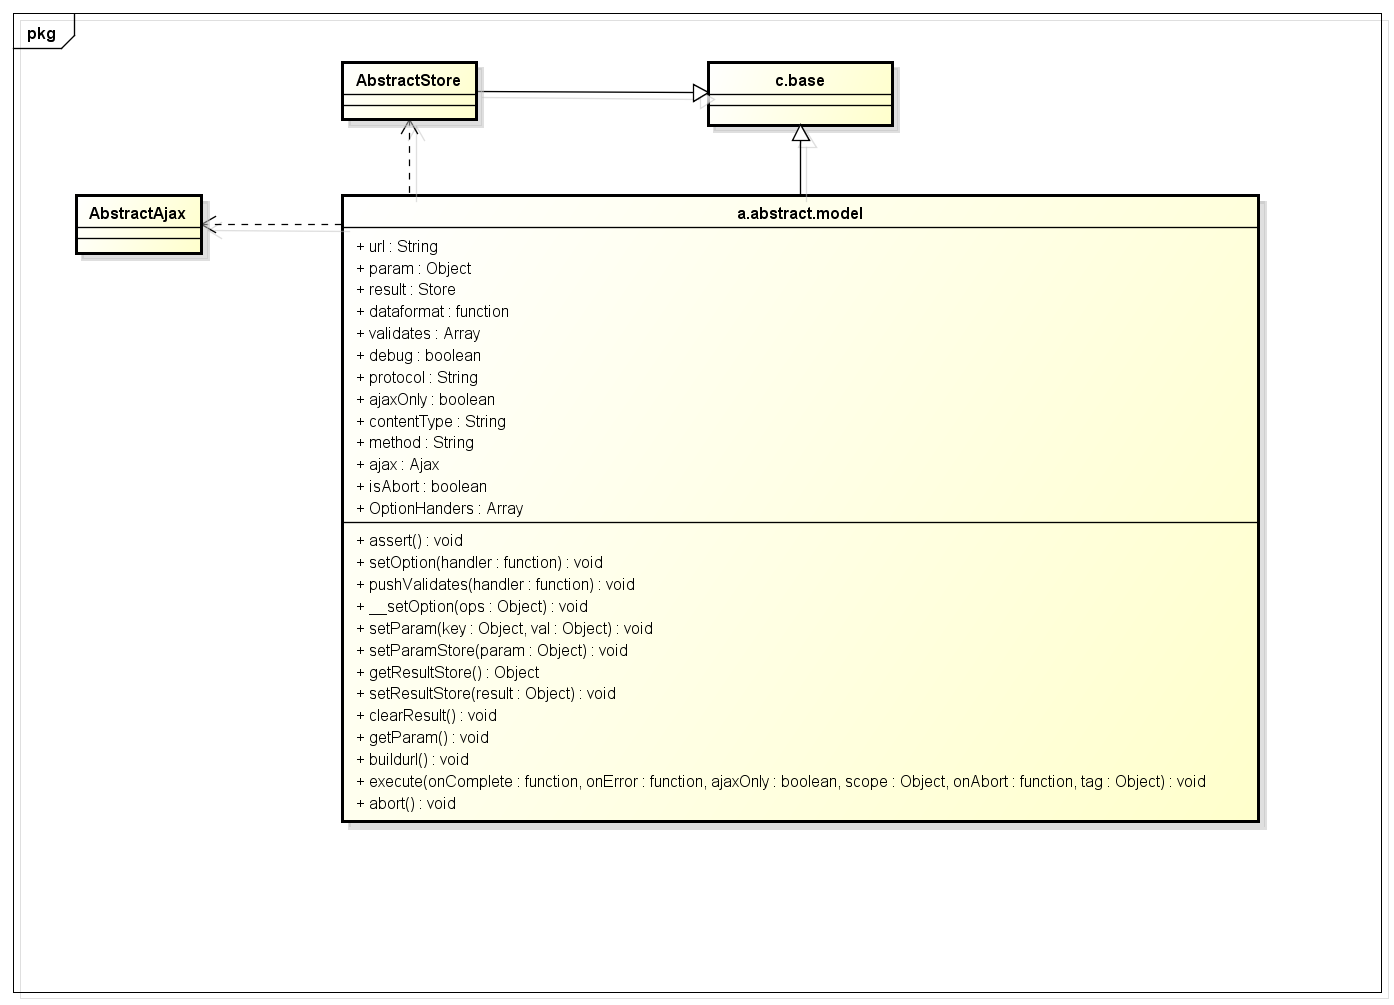
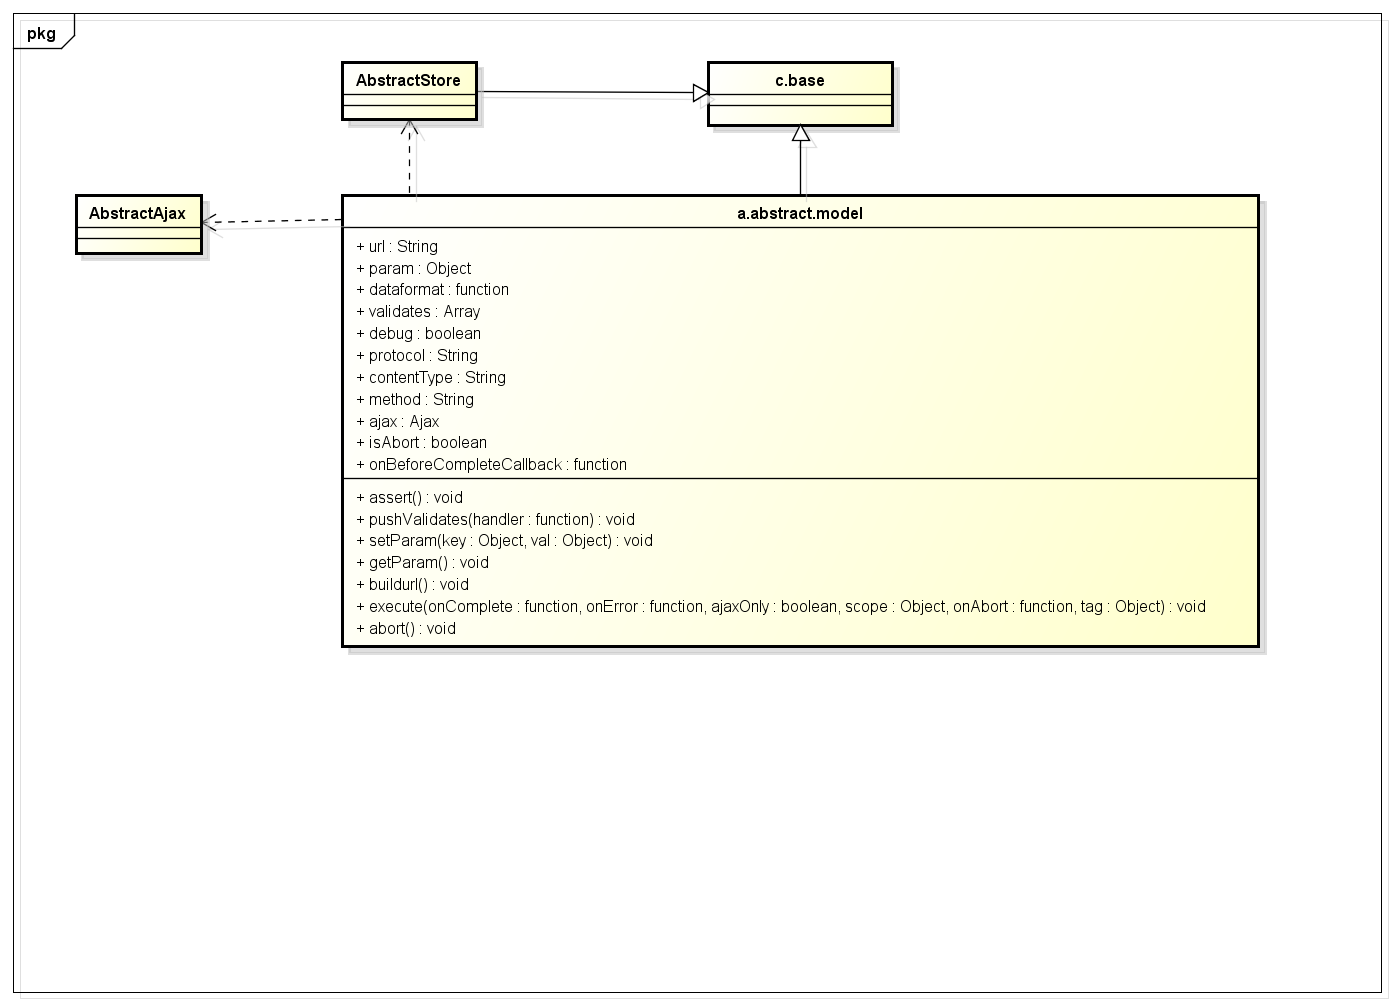
重构

Changed region(s): [[0.2468, 0.2776, 0.9254, 0.8328], [0.1542, 0.2159, 0.2468, 0.2468]]

diff --git a/src/model/c.abstract.model.js b/src/model/c.abstract.model.js
@@ -19,10 +19,7 @@ define(['libs', 'cBase', 'cStore', 'cAjax', 'cUtility'], function (libs, cBase, 
       * {Object|Store} 必选，用于存贮请求参数
       */
       this.param = null;
-      /**
-      * {Store} 可选，
-      */
-      this.result = null;
+      
       /**
       * {Function} 可选，数据返回时的自定义格式化函数
       */
@@ -59,7 +56,6 @@ define(['libs', 'cBase', 'cStore', 'cAjax', 'cUtility'], function (libs, cBase, 
       this.isAbort = false;
 
       //参数设置函数
-      this.OptionHanders = [];
       this.onBeforeCompleteCallback = null;
     },
 

diff --git a/src/model/c.model.js b/src/model/c.model.js
@@ -15,6 +15,10 @@ define(['libs', 'cBase', 'cStore', 'cAjax', 'cUtility', 'CommonStore', 'cAbtract
       this.usehead = true;
       //head数据
       this.head = CommonStore.HeadStore.getInstance();
+      /**
+      * {Store} 可选，
+      */
+      this.result = null;
 
       // @param {Boolean} 可选，只通过ajax获取数据，不做localstorage数据缓存
       this.ajaxOnly = false;

diff --git a/doc/model/c.abstract.model.md b/doc/model/c.abstract.model.md
@@ -10,17 +10,15 @@
 
     // @param url {String}                  请求地址
     // @param param {Object}                参数对象
-    // @param result {String}               store（localstorage）存储对象，客户端持久化
     // @param dataformat {function}         正确返回请求数据格式化
     // @param validates {Array}             数据验证函数集合，其中有一个验证失败则失败
     // @param debug {Boolean}               是否开启debug状态
     // @param protocol {String}             请求协议
-    // @param ajaxOnly {Boolean}            是否必须向服务器请求数据
     // @param contentType {String}          请求方式，json/jsonp/......
     // @param method {String}               请求方式 post/get
     // @param ajax {Ajax}                   请求数据时候用到的ajax对象
     // @param isAbort {boolean}             是否放弃ajax
-    // @param OptionHanders {Array}         参数数组
+    // @param onBeforeCompleteCallback {function}         ajax返回正确数据，执行success方法前调用的方法
 
 
 ### Method
@@ -30,45 +28,15 @@
     // 验证必须设置的字段是否设置
     assert: function () { ... }
 
-**public setOption**
-
-    // 为设置参数时候调用方法
-    setOption: function (handler) { ... }
-
 **public pushValidates**
 
     // 传入数据正确性验证函数集合
     pushValidates: function (handler) { ... }
 
-**public __setOption**
-
-    // 设置参数
-    __setOption: function (ops) { ... }
-
 **public setParam**
 
     // 设置请求参数
     setParam: function (key, val) { ... }
-
-**public setParamStore**
-
-    // 设置请求参数store对象
-    setParamStore: function (obj) { ... }
-
-**public getResultStore**
-
-    // 获得结果集
-    getResultStore: function () { ... }
-
-**public setResultStore**
-
-    // 设置结果集
-    setResultStore: function (result) { ... }
-
-**public clearResult**
-
-    // 清除结果集
-    clearResult: function () { ... }
 
 **public getParam**
 

diff --git a/doc/model/c.model.md b/doc/model/c.model.md
@@ -10,7 +10,7 @@
 
     // @param useHead {Boolean}             是否使用head信息
     // @param head {Object}                 头部参数信息
-
+    // @param result {Object}               数据缓存
 
 ### Method
 
@@ -39,6 +39,40 @@
     // 获取数据
     execute: function (onComplete, onError, ajaxOnly, scope, onAbort, tag ) { ... }
 
+**public getParamStore**
+
+    // 设置请求参数store对象
+    getParamStore: function () { ... }
+
+**public setParamStore**
+
+    // 设置请求参数store对象
+    setParamStore: function (obj) { ... }
+
+**public getResultStore**
+
+    // 获得结果集
+    getResultStore: function () { ... }
+
+**public setResultStore**
+
+    // 设置结果集
+    setResultStore: function (result) { ... }
+
+**public clearResult**
+
+    // 清除结果集
+    clearResult: function () { ... }
+
+**public setParam**
+
+    // 重写父类设置请求参数
+    setParam: function (key, val) { ... }
+
+**public getParam**
+
+    // 重写父类获取请求参数
+    getParam: function () { ... }
 
 
 ### 使用方法
